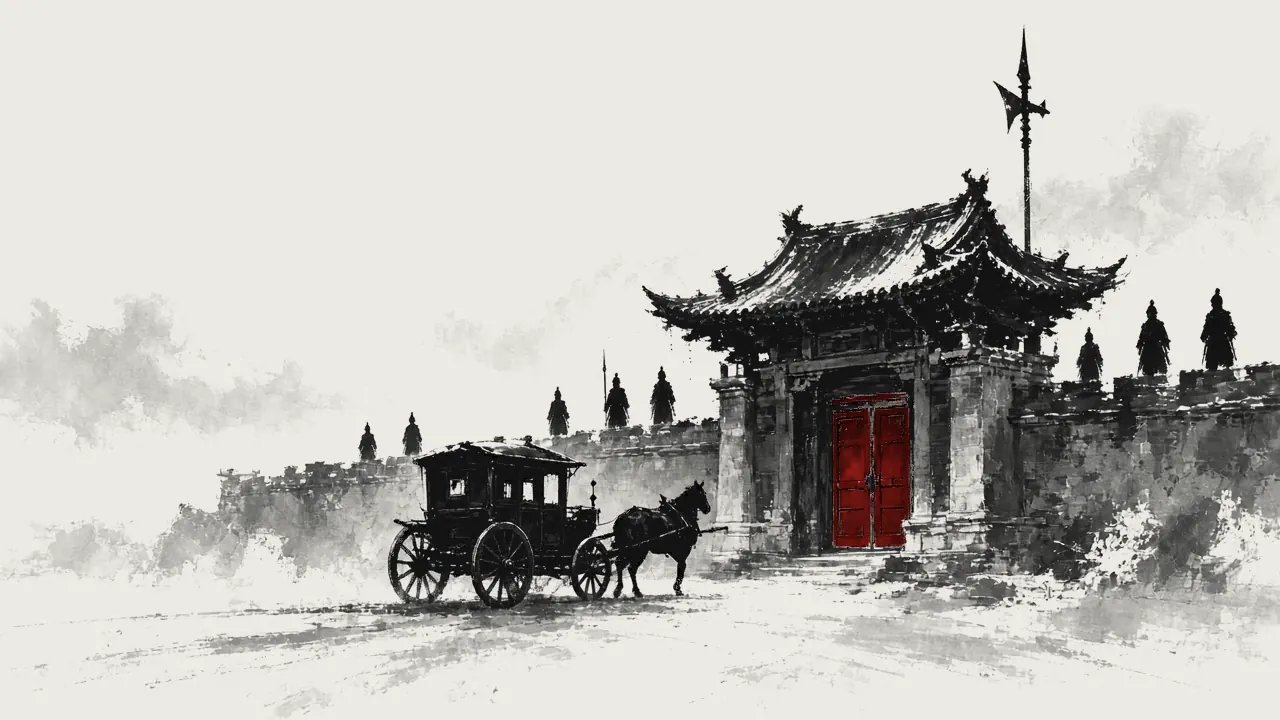
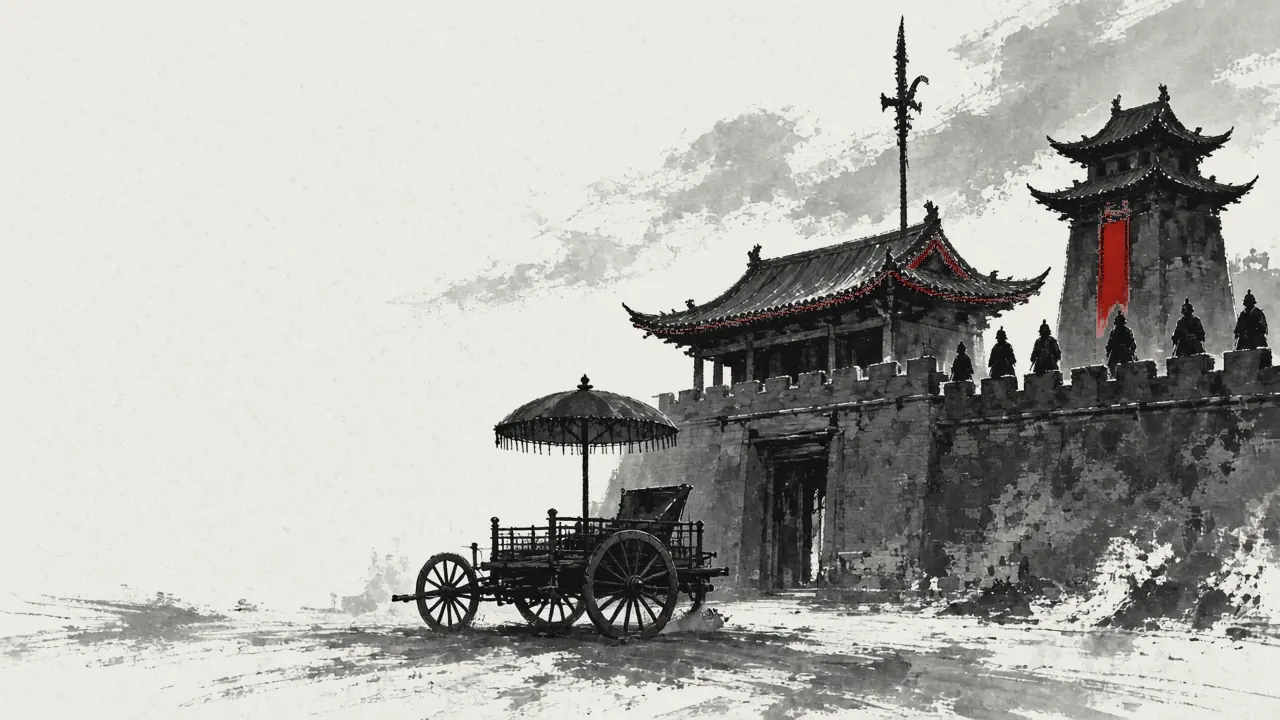
video: 三国 opening video rebuilt with ink-flow transitions (176.4 s, 24.1 MB, crf 33)
- 16 shots (01, 04, 07, 14, 16 regenerated after the anachronism review), 15 generated 3 s ink-flow transitions
  (/workspace/chapter-video/sanguo/transitions, not committed), narration rate -29% (108.8 s spoken)
- transitions recorded in sanguo.json; previous version 123.5 s, 28.0 MB

diff --git a/video/viewer/assets/chapter-videos/index.js b/video/viewer/assets/chapter-videos/index.js
@@ -46,7 +46,7 @@ window.CHAPTER_VIDEOS = {
    "mp4": "assets/chapter-videos/sanguo.mp4",
    "poster": "assets/chapter-videos/sanguo-poster.jpg",
    "posterWebp": "assets/chapter-videos/sanguo-poster.webp",
-   "durationSec": 123.5,
+   "durationSec": 176.42,
    "shots": 16,
    "audio": true
   },

diff --git a/video/docs/chapter-videos.md b/video/docs/chapter-videos.md
@@ -59,7 +59,7 @@
 | 秦 | `chapter-videos/qin.json`（9 场入镜 → 9 镜） | 9/9 完成 | v2 9/9 完成（镜 3 博浪沙原片偏暖黄、一匹马跑出画面，调色后回到色板；镜 8 天色渐暗出现月亮，未变形；镜 1、2、3、4、8 按时代错置审查重生成（镜 8 已无血迹）） | 完成（2026-10-11 流墨版）：`qin.mp4` 100.3 秒 · 1280×720 · 约 26.1 MB（crf 28）· 有声（旁白 rate −29%，共 59.0 秒；−16.0 LUFS）；镜间 8 段 3 秒流墨转场（`/workspace/chapter-video/qin/transitions/`）；海报 jpg/webp。上一版 72.4 秒 · 17.0 MB |
 | 楚汉 · 西汉 | `chapter-videos/xihan.json`（13 场入镜 → 14 镜） | 14/14 完成 | v2 14/14 完成（镜 1 鸿门宴舞剑动作幅度较大、地上朱红较多，未接触、未变形；镜 13 后段天色压暗近黑，旁白末帧延 0.1 秒） | 完成：`xihan.mp4` 109.0 秒 · 1280×720 · 约 25.1 MB · 有声（-16.0 LUFS）；海报 jpg/webp |
 | 新 · 东汉 | `chapter-videos/donghan.json`（11 场入镜 → 11 镜） | 11/11 完成 | v2 11/11 完成（镜 7 燕然勒石后段左侧驶入一队举朱旗的骑兵（静帧没有，未变形）；镜 1 推镜较快；镜 1、9 按时代错置审查重生成） | 完成（2026-10-11 流墨版）：`donghan.mp4` 122.6 秒 · 1280×720 · 约 25.7 MB（crf 30）· 有声（旁白 rate −29%，共 74.4 秒；−16.0 LUFS）；镜间 10 段 3 秒流墨转场（`/workspace/chapter-video/donghan/transitions/`）；海报 jpg/webp。上一版 87.0 秒 · 21.8 MB |
-| 三国 | `chapter-videos/sanguo.json`（15 场入镜 → 16 镜） | 16/16 完成 | v2 16/16 完成（镜 2 风雨天空出现漩涡状墨纹；镜 11 受禅台顶上长出一座楼阁，均保留；镜 9 后段下方出现一排朱旗，未变形） | 完成：`sanguo.mp4` 123.5 秒 · 1280×720 · 约 28.0 MB · 有声（-16.0 LUFS）；海报 jpg/webp |
+| 三国 | `chapter-videos/sanguo.json`（15 场入镜 → 16 镜） | 16/16 完成 | v2 16/16 完成（镜 2 风雨天空出现漩涡状墨纹；镜 11 受禅台顶上长出一座楼阁，均保留；镜 9 后段下方出现一排朱旗，未变形；镜 1、4、7、14、16 按时代错置审查重生成） | 完成（2026-10-11 流墨版）：`sanguo.mp4` 176.4 秒 · 1280×720 · 约 24.1 MB（crf 33）· 有声（旁白 rate −29%，共 108.8 秒；−16.0 LUFS）；镜间 15 段 3 秒流墨转场（`/workspace/chapter-video/sanguo/transitions/`）；海报 jpg/webp。上一版 123.5 秒 · 28.0 MB |
 | 两晋 | `chapter-videos/liangjin.json`（12 场 → 10 镜，约 1:20） | 0/10 | 0/10 | 待出片 |
 | 南北朝 | `chapter-videos/nanbeichao.json`（14 场 → 11 镜，约 1:27） | 0/11 | 0/11 | 待出片 |
 | 隋 | `chapter-videos/sui.json`（10 场 → 9 镜，约 1:12） | 0/9 | 0/9 | 待出片 |

diff --git a/AGENTS.md b/AGENTS.md
@@ -188,6 +188,7 @@ node video/tools/validate.mjs   # 历史内容校验器，必须 0 个错误
 | 2026-10-11 | 战国按新规则重建（镜 6、7、12、15 按时代错置审查重生成；流墨转场 14 段、旁白 −29%，166.2 s，25.2 MB，crf 32） | 本地提交，待审 |
 | 2026-10-11 | 秦按新规则重建（镜 1、2、3、4、8 按时代错置审查重生成（镜 8 已无血迹）；流墨转场 8 段、旁白 −29%，100.3 s，26.1 MB，crf 28） | 本地提交，待审 |
 | 2026-10-11 | 新 · 东汉按新规则重建（镜 1、9 按时代错置审查重生成；流墨转场 10 段、旁白 −29%，122.6 s，25.7 MB，crf 30） | 本地提交，待审 |
+| 2026-10-11 | 三国按新规则重建（镜 1、4、7、14、16 按时代错置审查重生成；流墨转场 15 段、旁白 −29%，176.4 s，24.1 MB，crf 33） | 本地提交，待审 |
 
 ## 10. 关键记忆与规则
 
